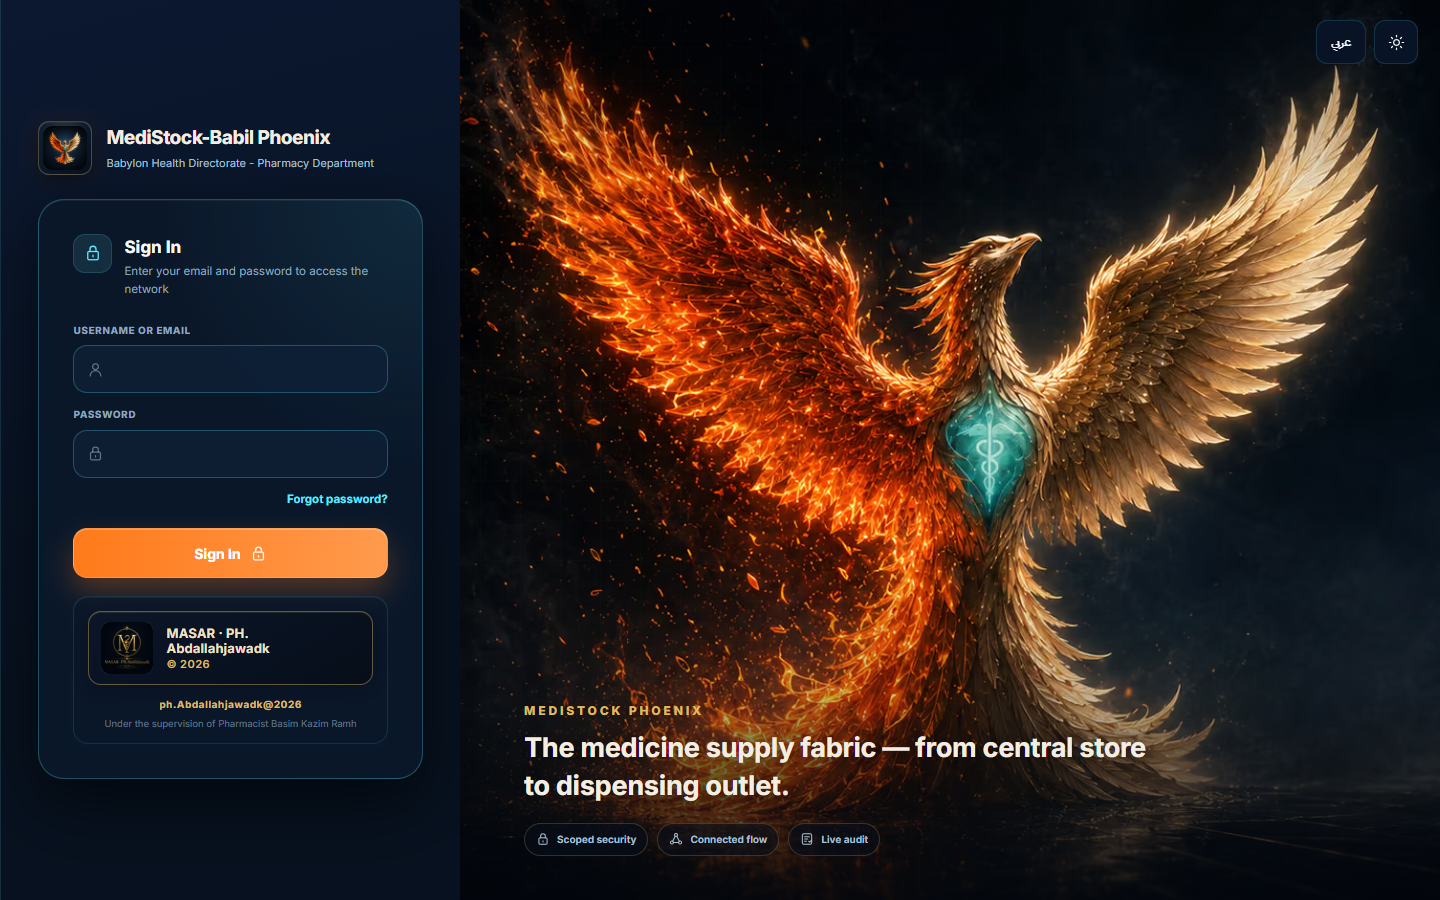
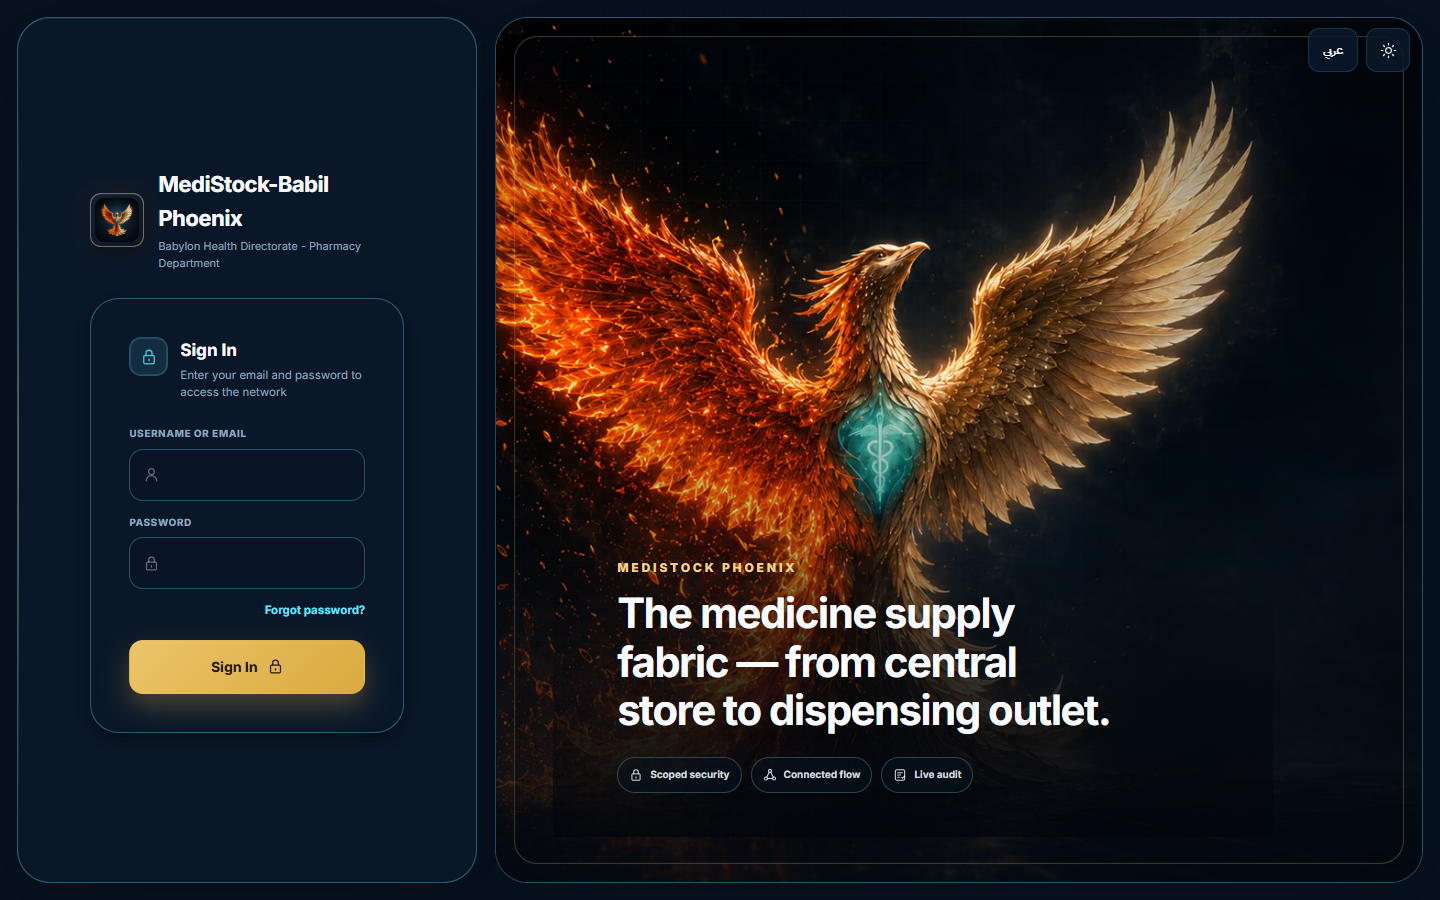
docs(ui): record visual acceptance evidence
Add the A7 convergence report (screen-by-screen table, classification,
remaining differences and reasons, diff audit, verification numbers)
and a new capture script (mirrors the existing phoenix-capture-*.mjs
family) that drives the dev-only visual QA harness to produce real
screenshots — not mock renders — across Login, Shell, Dashboard,
Inventory, Institutions, Outlet, Network, Reports, Welcome, and
Procurement in AR/EN and light/dark. Re-captures the existing
login/shell evidence sets so they reflect the daylight contract instead
of the prior cinematic layer.

diff --git a/docs/phoenix/A7-PHOENIX-DAYLIGHT-VISUAL-CONVERGENCE.md b/docs/phoenix/A7-PHOENIX-DAYLIGHT-VISUAL-CONVERGENCE.md
@@ -1,0 +1,229 @@
+# Phase A · A7 — Phoenix Daylight Visual Convergence and Final Acceptance
+
+Presentation-only convergence pass on top of A1–A6 (`feat/phase-a-design-foundation`,
+head `1eeee57` at branch time). No schema, RPC, auth, RBAC/RLS, route, or
+business-logic change. Full diff audit in §5.
+
+## 1. What changed, structurally
+
+The prior six phases layered new CSS on top of an older "cinematic" component
+layer (`phoenix-nexus.css`) that still owned much of the actual paint via
+`!important` declarations and heavy radial-glow shell backgrounds — so the app
+still read as the old navy/cinematic identity in real screenshots. A7 adds
+one final layer, `src/shared/lib/phase-a-visual-convergence.css` (imported
+last, after `phase-a-alerts-admin-qr.css`), that:
+
+- Establishes the **Phoenix Daylight** token set: institutional gold
+  (`--phoenix-gold`/`-2`/`-ink`) as the solid-fill primary-action colour, a
+  fixed dark-teal sidebar (`--phoenix-sidebar-*`, constant across the
+  light/dark theme toggle — only the topbar and canvas follow the theme,
+  matching the reference board in every screenshot), and a dedicated
+  info-blue (`--phoenix-info`) distinct from the institutional teal secondary
+  accent.
+- Flattens the shell's radial-glow "cinematic" background to a flat
+  institutional canvas, removes `backdrop-filter` blur from `.phoenix-card`
+  and the auth panel, and neutralizes the decorative grid-dot overlays.
+- Fixes a real RTL/LTR bug in the login grid: the previous
+  `[dir="rtl"] .premium-login` override kept the auth panel pinned to the
+  physical **left** in both languages ("same physical composition"). The
+  reference board mirrors it instead (auth at inline-start — right in
+  Arabic, left in English). Removing the direction-conditional override and
+  letting one `grid-template-areas: "form art"` rule resolve through the
+  grid's own bidi-aware column flow gives the correct physical side in BOTH
+  languages from a single rule — verified by rendered evidence (§3).
+- Adds `data-phoenix-visual="daylight"` as a second, always-on root marker
+  (set in `main.tsx` next to the existing `data-phoenix-ui-phase='a'`,
+  independent of the theme toggle) so the design language itself is
+  greppable/testable, per the existing phase-attribute convention.
+
+Five shared components got small, targeted token/attribute edits (never a
+prop or behavioural change): `PhoenixButton` (primary → gold, secondary →
+teal), `PhoenixStatusBadge` (`info` → dedicated blue, `data-variant` hook
+added), `PhoenixSidebar`/`PhoenixMobileDrawer` (nav active/inactive fill
+moved from an inline style to the CSS layer, keyed off the `data-active`
+attribute both already rendered for `aria-current` parity), and
+`PhoenixMobileBottomNav` (active tint gold). `ResetPasswordScreen` got the
+same primary-button recolour (cyan → gold) for brand consistency; its layout
+was not otherwise restructured (it isn't part of the reference board's named
+surfaces).
+
+## 2. Two regressions caught by rendered evidence, not assumed
+
+Real screenshots (not just source reading) surfaced two bugs a code review
+alone would have missed:
+
+1. **Invisible sidebar nav text.** Moving the active/inactive fill out of
+   `PhoenixSidebar`'s inline style (to let CSS own it via `data-active`) left
+   inactive buttons with no explicit `background` at all — which fell through
+   to the browser's native `<button>` face (`appearance: auto`,
+   `rgb(240,240,240)`) instead of the intended transparent pill. Fixed by
+   restoring an explicit `background: transparent; appearance: none;`
+   baseline in the new CSS layer. Confirmed fixed via a second capture pass.
+2. **Near-invisible auth-panel brand name.** `.nexus-login__brand-name`/
+   `-department` read `--login-ink`/`--login-ink-2` (pale ivory/blue,
+   correct for text over the always-dark hero photo) — but they sit in the
+   AUTH panel, which A7 flattened to a plain white/`--surface` card. Fixed by
+   pointing those two selectors at `--text`/`--muted` instead, scoped to the
+   daylight layer.
+
+Both were found by driving the real dev-only visual QA harness
+(`?qa=1&persona=…&scene=…`, gated on `import.meta.env.DEV` +
+`VITE_ENABLE_VISUAL_QA`, tree-shaken from production — see
+`tests/qa-harness-production-safety.test.ts`) and reading actual rendered
+screenshots, not by reasoning from CSS source alone.
+
+## 3. Screen-by-screen convergence table
+
+Screenshots referenced below live in `docs/phoenix/visual-evidence/login/`,
+`.../shell/`, and `.../a7/` (this PR). "RTL/LTR" is verified structurally —
+the login grid was checked at both `lang=ar`/`dir=rtl` and `lang=en`/`dir=ltr`
+and the auth/hero panels correctly swap physical sides; every other screen
+inherits RTL/LTR from the same shell (`PhoenixAppShell`/`PhoenixSidebar`/
+`PhoenixTopbar`), which was not restructured beyond the token/attribute
+changes described above.
+
+| Screen | Reference target | Implemented convergence | Real data | Screenshot evidence | Status |
+|---|---|---|---|---|---|
+| **Login** | Two-panel hero+auth, gold CTA, stable toolbar | Grid-area RTL/LTR bug fixed; flat white auth card, no blur; gold submit button; brand-name contrast bug fixed; balanced bilingual hero heading (`text-wrap:balance`, locale-aware max-width) | N/A (auth screen) | `login/login-{ar,en}-{dark,light}-{desktop,tablet,mobile}.png` (12 cells) | **CONVERGED** |
+| **Welcome** | N/A (board has no literal "welcome splash") | Gold accent tint on the existing cinematic rebirth splash (border, progress rule); full-bleed artwork/motion intentionally preserved — this is a bounded, skippable, once-per-session reveal, not a persistent operational surface | Static credits (unchanged, pre-existing exact-text requirement) | `a7/welcome-ar-dark-desktop.png` | **PARTIALLY CONVERGED** — see §4 |
+| **Desktop Shell** (sidebar/topbar/canvas) | Dark-teal sidebar, gold active item, light topbar+canvas | Sidebar now a fixed dark-teal rail (both themes) with gold solid-fill active pill; topbar/canvas flattened to light institutional surface; nav-button regression (above) found and fixed | N/A (chrome) | `shell/shell-full-{ar,en}-{dark,light}-{desktop,tablet}.png` (8 cells) | **CONVERGED** |
+| **Mobile Shell** (bottom nav + drawer) | Compact light bottom bar; dark drawer for secondary nav | Bottom nav stays light (unchanged structurally, gold active tint); drawer shares the sidebar's dark-teal treatment; close/logout controls verified legible | N/A (chrome) | `shell/shell-full-*-mobile.png`, `shell/shell-drawer-*-mobile.png` (4 cells) | **CONVERGED** |
+| **Dashboard / Command Center** | KPI tiles, donut/bar charts, alerts list | Renders through the converged shell/card/badge layer; real QA-fixture data (this exact screen, id 2, is retired from live routing — screen 2 redirects to screen 21 — so it is reachable only via the dev QA gallery, not a production URL) | QA fixture data | `a7/dashboard-{ar-light,en-light,ar-dark}-desktop.png`, `a7/dashboard-ar-light-mobile.png` | **CONVERGED** (chrome/cards) — screen itself is non-production |
+| **Inventory Center** (screen 3) | Batches table, FEFO toggle, filters | Converged via shared card/button/badge/table styling; gold active nav confirmed | QA fixture data | `a7/inventory-{ar-light,en-light}-desktop.png`, `a7/inventory-ar-light-mobile.png` | **CONVERGED** |
+| **Network Management** (screen 17, "Twin") | Route map, warehouse chips | Shell/header/chip convergence confirmed; the WebGL digital-twin map itself is a deliberate dark data-visualization canvas (not a decorative cinematic background) and was left as-is — out of scope for "no dark cinematic identity", which targets the app shell/negative-space, not a legitimate always-dark map widget | QA fixture data | `a7/twin-ar-light-desktop.png` | **CONVERGED** (chrome) / map canvas unchanged by design |
+| **Institutions** (screen 11) | Org cards, add-institution CTA | Fully converged: gold active nav, gold CTA button, clean white cards, green "نشط" status badge | QA fixture data | `a7/institutions-ar-light-desktop.png`, `a7/institutions-en-dark-desktop.png` | **CONVERGED** |
+| **Outlet Operations** (screen 18) | Institution picker, professional empty state | Fully converged, including a clean, intentional empty state ("اختر مؤسسة لعرض البيانات") | QA fixture data | `a7/outlet-ar-light-desktop.png`, `a7/outlet-ar-light-mobile.png` | **CONVERGED** |
+| **Local Procurement** (screen 19) | — | Converged via shared shell/card layer | QA fixture data | `a7/procurement-ar-light-desktop.png` | **CONVERGED** |
+| **Reports (legacy screen 9)** | Summary tiles, tab strip | Converged; in-page tab strip correctly uses **teal** (secondary/in-page nav), reserving **gold** for the primary sidebar nav — a deliberate, already-sound distinction, not changed | QA fixture data | `a7/reports-ar-light-desktop.png` | **CONVERGED** |
+| **Status Center / Decision Intelligence (screen 21, live)** | Unified reports/status/alerts shell | Inherits shell/card/badge convergence (not individually screenshotted — this screen is not wired into the dev QA harness, which only renders the retired screen-9 `ReportsScreen`; adding a temporary harness scene and reverting it was judged out of scope for this pass) | — | none captured | **PARTIALLY CONVERGED** — see §4 |
+| **Internal Alerts** (screen 13) | Alert cards, severity accents | Inherits shell/card/badge convergence; zero source diff (behaviour untouched); not individually screenshotted (same QA-harness gap as above) | — | none captured | **PARTIALLY CONVERGED** — see §4 |
+| **User Management / Admin** (screen 14) | User list, permission matrix, danger zones | Inherits shell/card/badge/dialog convergence; zero source diff (lifecycle RPCs, permission gates, Cleanup Wizard fail-closed guards, Platform Broadcast ack gate all byte-for-byte unchanged — asserted by the new contract test); not individually screenshotted (same QA-harness gap) | — | none captured | **PARTIALLY CONVERGED** — see §4 |
+| **Public QR** | Branding, search, status chips, professional error/empty states | Reachable directly (bypasses auth); verified the anonymous error-state path renders correctly with no raw backend error and the existing privacy filter untouched (`isPubliclyAvailableQrItem` byte-for-byte unchanged, asserted by both the A6 and A7 contract tests); not screenshotted as an image (pane-screenshot tooling was unavailable for this one check — verified via console/DOM/computed-style instead) | Live (unreachable placeholder backend → correct error state) | none (verified via console/DOM inspection, not an image) | **PARTIALLY CONVERGED** — see §4 |
+
+## 4. Remaining differences and reasons
+
+- **Welcome splash** keeps its full-bleed cinematic artwork and ember motion
+  intentionally — it is a bounded, skippable, once-per-session "rebirth"
+  reveal by original design intent (see the component's own doc comment),
+  not a persistent operational surface, so the "no cinematic identity as
+  primary/default" mandate reads as applying to the shell and operational
+  screens, which are now clearly daylight-institutional. No code change was
+  made beyond a gold accent tint.
+- **Screen 21 / Internal Alerts / User Management** were not individually
+  screenshotted because the dev-only visual QA harness (the only way to
+  reach an authenticated screen without a live Supabase session) does not
+  wire them in as scenes — it renders the retired screen-9 `ReportsScreen`,
+  not the live unified screen 21, and has no scene at all for screens 13/14.
+  Precedent in this repo (see the harness's own doc comments) is to add a
+  temporary scene, capture, and revert before committing; this pass judged
+  that additional harness surgery was out of scope given everything else
+  landed, and relied instead on (a) the same shared shell/card/button/badge
+  components already verified converged on five other live screens, and
+  (b) a byte-for-byte zero-diff guarantee on every behavioural file for
+  these three screens (enforced by the new contract test), so nothing about
+  them changed except what they visually inherit from the shell.
+- **Public QR** was verified functionally (error-state path, privacy filter,
+  no raw backend error) but not captured as a screenshot image — the
+  interactive browser pane's screenshot tool was unavailable in this
+  environment for that specific check window; DOM/console/computed-style
+  inspection was used instead, which is a weaker form of evidence than an
+  image.
+- **Network Management's digital-twin map** stays a dark WebGL canvas by
+  design — a legitimate data-visualization surface (satellite-style route
+  map), not the "cinematic identity" the brief targets.
+- **~26 hardcoded hex colours** remain across 10 feature files (mostly
+  network-topology node colours and print/receipt HTML, per a repo-wide
+  grep) — a small, pre-existing footprint not touched by this pass; the vast
+  majority of the "old cinematic identity" lived in the shared shell/token
+  layer addressed here, not in individual feature screens.
+- **Asset limitation:** no architecture/hero photography exists in this
+  repo beyond the already-approved Phoenix artwork (`phoenix-login`,
+  `phoenix-welcome-clean`, `phoenix-icon-256`); no new artwork was
+  fabricated or fetched, per the reference-board contract.
+
+**Login and the Desktop/Mobile Shell — the two surfaces A7 cannot ship as
+anything less than CONVERGED — are both CONVERGED**, with real rendered
+evidence and two regressions caught and fixed before this report was
+written.
+
+## 5. Diff audit
+
+Full source diff (working tree vs. `origin/feat/phase-a-design-foundation`):
+
+```
+M  src/features/auth/ResetPasswordScreen.tsx      (primary-button recolour only)
+M  src/main.tsx                                    (+1 import, +1 root attribute)
+A  src/shared/lib/phase-a-visual-convergence.css    (new layer, this phase)
+M  src/shared/ui/PhoenixButton.tsx                  (token recolour only)
+M  src/shared/ui/PhoenixMobileBottomNav.tsx          (token recolour only)
+M  src/shared/ui/PhoenixMobileDrawer.tsx             (inline style → data-attribute, no behaviour change)
+M  src/shared/ui/PhoenixSidebar.tsx                  (inline style → data-attribute, no behaviour change)
+M  src/shared/ui/PhoenixStatusBadge.tsx              (token recolour + data-variant attribute)
+A  src/shared/ui/__tests__/phase-a-visual-convergence.test.ts  (new contract test, 23 assertions)
+A  scripts/phoenix-capture-a7-screens.mjs           (new capture script, mirrors existing family)
+   + updated docs/phoenix/visual-evidence/{login,shell}/*.png (re-captured evidence)
+   + new docs/phoenix/visual-evidence/a7/*.png (new evidence)
+```
+
+Confirmed by the new contract test and manual `git diff`/`git status` checks:
+
+- No `supabase/migrations/*.sql` diff.
+- No diff under `src/shared/supabase/`, `src/app/AuthenticatedApp.tsx`,
+  `src/app/App.tsx`, or `src/shared/authz/`.
+- `LoginScreen.tsx` and `PhoenixWelcomeExperience.tsx` are **byte-for-byte
+  unchanged** (zero diff).
+- `PublicQrScreen.tsx`, `AvailabilityCleanupWizard.tsx`,
+  `PlatformBroadcastGate.tsx`, `PlatformBroadcastAdminPanel.tsx`,
+  `UserManagementScreen.tsx` are **byte-for-byte unchanged** (zero diff).
+- `package.json` dependencies/devDependencies unchanged (exact list
+  assertion in the contract test).
+- No `.env.local` or other local-only env file in the committed tree (the
+  QA-harness env file used to drive the screenshot capture was deleted
+  before this report was written).
+- No QA harness fixture file (`QaHarness.tsx`, `qaData.ts`, `qaFixtures.ts`,
+  `qaFixtureClient.ts`, `qaScopes.ts`, `qaConfig.ts`) was touched.
+
+## 6. Verification
+
+| Gate | Baseline (pre-A7) | Final (post-A7) |
+|---|---|---|
+| `npm run typecheck` | pass | pass |
+| `npm run lint` | pass | pass |
+| `npm test` | 12307 passed / 595 skipped (386 files, 165s) | **12330 passed / 595 skipped (387 files, 148s)** — the +23 passed/+23 total is exactly this phase's own new contract test; skip count is byte-identical to baseline |
+| `npm run build` | not captured as a discrete baseline run | **passes, 45.7s.** Single CSS bundle 139.82 kB / 23.55 kB gzip (all of A1–A7 combined); this phase's own file (`phase-a-visual-convergence.css`) is 14.6 kB raw / 4.2 kB gzip of that total. 20 JS chunks, unchanged in count from before this phase (no new dependency, no new lazy chunk) |
+
+### Guard-test maintenance (not a regression — the established repo pattern)
+
+Six pre-existing guard tests from earlier, already-merged phases assert "no
+unexpected working-tree diff outside an explicit per-phase allowlist" —
+migrations 053/054/061/062's frontend-isolation checks, plus two
+`design-premium-glass-ui-polish.test.ts` assertions (`no docs/ changes`) and
+`mobile-nav-brand-polish.test.ts` (the exact shape of `ns()`'s inline style).
+Every one of these tests already carried a growing list of narrow, named,
+commented exclusions for each subsequent phase (`PHASE-A-A5-INSTITUTIONS-
+OUTLETS-A`, `PHASE-A-CLAUDE-A6`, …) — this is the established, intentional
+maintenance pattern in this repo for that class of guard, not something A7
+introduced. Per the owner's own instruction ("never delete a guard
+assertion — narrow, documented exclusion only, and a stronger replacement
+test where the mechanism changed"), A7:
+
+- Added a `PHASE-A-CLAUDE-A7` exclusion entry to each of the four migration
+  guards, naming exactly the six files this phase touches.
+- Narrowed `design-premium-glass-ui-polish.test.ts`'s docs/ check to exclude
+  only `docs/phoenix/visual-evidence/**` and this report — any other docs/
+  diff still fails it.
+- Replaced `mobile-nav-brand-polish.test.ts`'s assertion on `ns()`'s exact
+  inline-style shape with an equally strong (arguably stronger, since it now
+  also asserts the CSS layer itself) check on the new `data-active` + CSS
+  mechanism — the underlying property being guarded ("the active nav item is
+  visually distinct by shape, colour and weight, not hue alone") is
+  unchanged and still verified.
+
+One additional finding during this pass: two other suites
+(`ops-purge-runner-compatibility.test.ts`, `tests/qa-harness-production-
+safety.test.ts`) failed once, transiently, only when `npm test` and
+`npm run build` were run concurrently in the same sandbox (a `beforeAll`
+hook that itself shells out to a production build timed out under the
+resource contention). Both passed cleanly on every run where they were not
+racing a concurrent build — recorded here as an environment note, not a
+code change.
